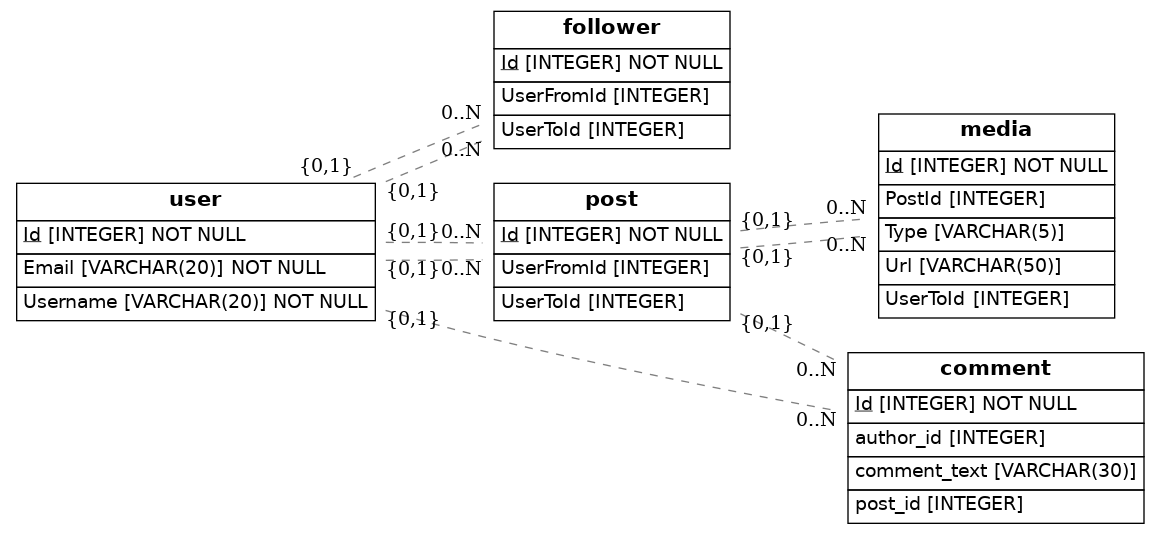
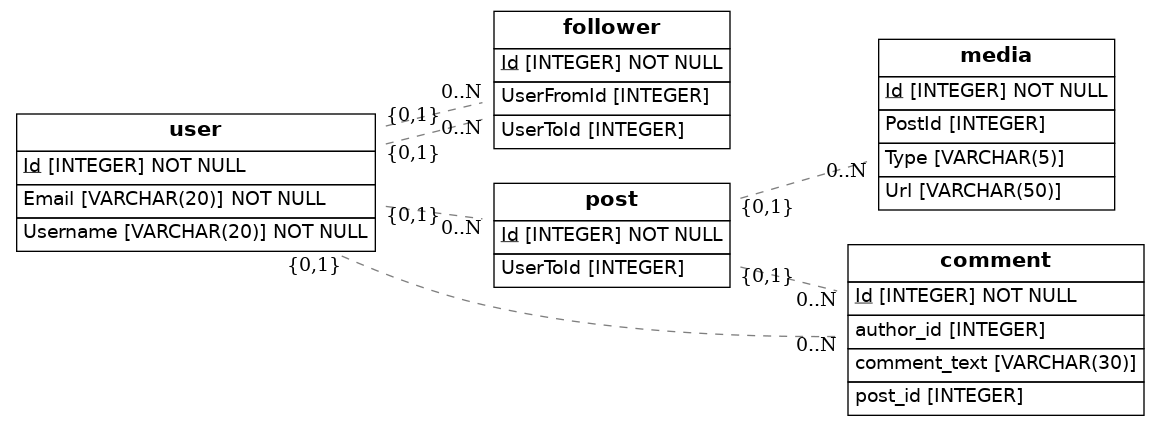
ahora si

Changed region(s): [[0.0, 0.0, 0.9931, 1.0], [0.931, 0.0915, 0.9621, 0.1221]]

diff --git a/src/models.py b/src/models.py
@@ -1,47 +1,49 @@
 import os
 import sys
-from sqlalchemy import Column, ForeignKey, Integer, String
+from sqlalchemy import Column, ForeignKey, Integer, String, Enum
 from sqlalchemy.orm import relationship, declarative_base
 from sqlalchemy import create_engine
 from eralchemy2 import render_er
-from sqlalchemy import Enum
+
 Base = declarative_base()
 
 class User(Base):
-    __tablename__='user'
+    __tablename__ = 'user'
     Id = Column(Integer, primary_key=True)
-    Username = Column(String(20), nullable = False, unique = True)
-    Email = Column(String(20), nullable = False, unique = True)
+    Username = Column(String(20), nullable=False, unique=True)
+    Email = Column(String(20), nullable=False, unique=True)
 
 class Follower(Base):
-    __tablename__='follower'
+    __tablename__ = 'follower'
     Id = Column(Integer, primary_key=True)
     UserFromId = Column(Integer, ForeignKey('user.Id'))
     UserToId = Column(Integer, ForeignKey('user.Id'))
-    user = relationship(User)
+    user_from = relationship(User)
+    user_to = relationship(User)
 
 class Post(Base):
-    __tablename__='post'
+    __tablename__ = 'post'
     Id = Column(Integer, primary_key=True)
     UserFromId = Column(Integer, ForeignKey('user.Id'))
     UserToId = Column(Integer, ForeignKey('user.Id'))
-    user = relationship(User)
+    UserFromId = relationship(User)
 
 class Media(Base):
-    __tablename__='media'
+    __tablename__ = 'media'
     Id = Column(Integer, primary_key=True)
-    Type = Column(Enum('admin', 'user', name='user_type'))
+    Type = Column(Enum('admin', 'user', name='media_type'))
     Url = Column(String(50), nullable=True)
     PostId = Column(Integer, ForeignKey('post.Id'))
-    UserToId = Column(Integer, ForeignKey('post.Id'))
     post = relationship(Post)
 
 class Comment(Base):
-    __tablename__='comment'
+    __tablename__ = 'comment'
     Id = Column(Integer, primary_key=True)
     comment_text = Column(String(30), nullable=True)
     author_id = Column(Integer, ForeignKey('user.Id'))
     post_id = Column(Integer, ForeignKey('post.Id'))
+    author = relationship(User)
+    post = relationship(Post)
 
     def to_dict(self):
         return {}
@@ -51,5 +53,5 @@ try:
     result = render_er(Base, 'diagram.png')
     print("Success! Check the diagram.png file")
 except Exception as e:
-    print("There was a problem genering the diagram")
+    print("There was a problem generating the diagram")
     raise e
